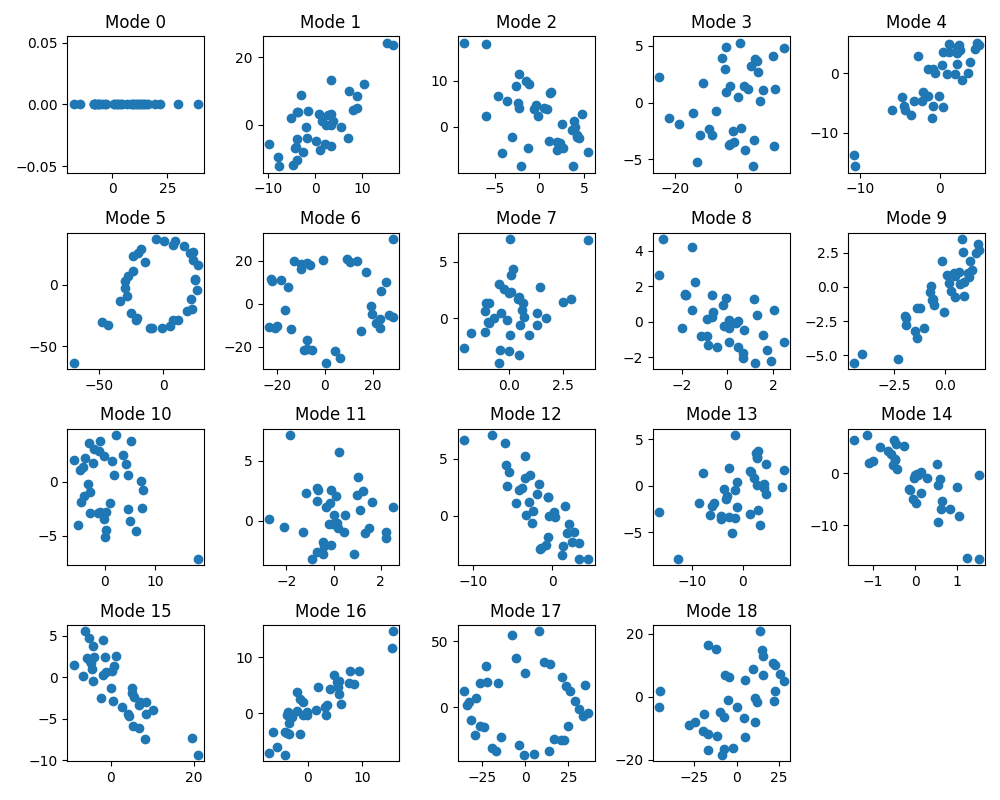
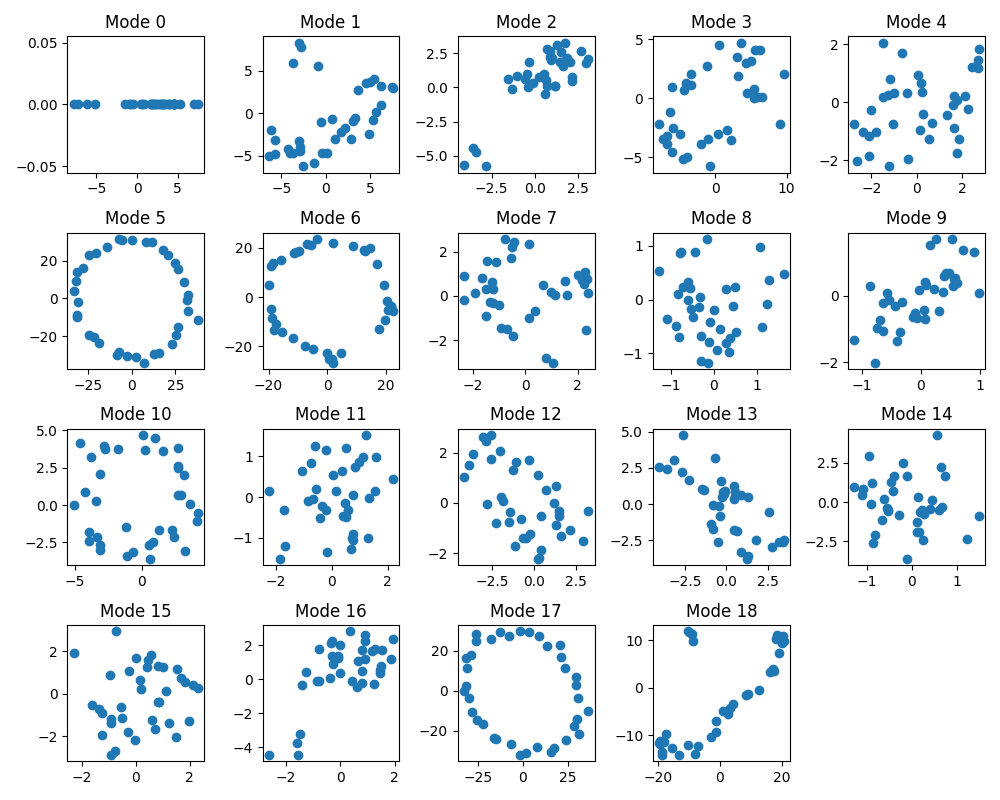
added some iterative functions to mlp_modular, but getting unexpected bug

diff --git a/modular_addition/mlp_modular.py b/modular_addition/mlp_modular.py
@@ -1,6 +1,8 @@
 import torch as t
 import torch.nn as nn
 import torch.utils.data as data
+import hashlib
+
 from sklearn.decomposition import PCA
 import matplotlib.pyplot as plt
 from generate_movie import (
@@ -10,12 +12,37 @@ from generate_movie import (
 )
 from itertools import combinations
 from utils import get_weight_norm
+from sympy import primerange
+
 import math
 
 
 def all_subsets(s):
     return [set(comb) for i in range(len(s) + 1) for comb in combinations(s, i)]
 
+
+def hash_with_seed(value, seed = 42):
+    m = hashlib.sha256()
+    m.update(str(seed).encode('utf-8'))
+    m.update(str(value).encode('utf-8'))
+    return int(m.hexdigest(), 16)
+
+
+
+class RandomOperationDataset(data.Dataset):
+    def __init__(self, d_vocab=114):
+        super().__init__()
+        self.d_vocab = d_vocab
+        self.eq_token = d_vocab - 1  # assuming '=' is the last token in the vocabulary
+
+    def __len__(self):
+        return (self.d_vocab - 1) ** 2
+
+    def __getitem__(self, idx):
+        a = idx // (self.d_vocab - 1)
+        b = idx % (self.d_vocab - 1)
+        res = hash_with_seed(a + b + a*b*self.d_vocab) % (self.d_vocab - 1)
+        return a, b, res
 
 class ModuloAdditionDataset(data.Dataset):
     def __init__(self, d_vocab=114):
@@ -97,6 +124,24 @@ class MLP(nn.Module):
         return self.linear3(x)
 
 
+def fourier_matrix(n):
+    fourier_matrix = t.zeros((n, n), dtype=t.cfloat)
+    for i in range(n):
+        for j in range(n):
+            theta = t.tensor(2 * t.pi * i * j / (n))
+            fourier_matrix[i, j] = t.complex(t.cos(theta), t.sin(theta))
+    return fourier_matrix
+
+def inv_fourier_matrix(n):
+    inv_fourier_matrix = t.zeros((n, n), dtype=t.cfloat)
+    for i in range(n):
+        for j in range(n):
+            theta = t.tensor(2 * t.pi * i * j / (n))
+            inv_fourier_matrix[i, j] = t.complex(t.cos(-theta), t.sin(-theta))
+            inv_fourier_matrix *= 1/(n)
+    return inv_fourier_matrix
+
+
 class MLP_unchunked(nn.Module):
     def __init__(self, embed_dim, vocab_size, hidden_dim):
         super().__init__()
@@ -126,6 +171,7 @@ class MLP_unchunked(nn.Module):
         fourier_matrix = fourier_matrix.to(embedding_weights.device)
         fourier_embedding = t.matmul(fourier_matrix, embedding_weights)
         return fourier_embedding
+
 
     def project_to_fourier_mode(self, filename):
         fourier_modes = self.get_fourier_modes()
@@ -169,6 +215,22 @@ class MLP_unchunked(nn.Module):
         plt.tight_layout()
         plt.savefig(filename)
         plt.close()
+
+
+
+def ablate_other_modes(model, modes, embedding):
+    n = self.vocab_size - 1
+    fourier_modes = get_fourier_modes(self)
+    inv_fourier_matrix = inv_fourier_matrix(n)
+    mask = torch.zeros(n, dtype=torch.float32)
+    # Use scatter_ to place zeros at the specified indices
+    mask.scatter_(0, modes, 1.0).to(t.cfloat)
+    fourier_modes *= mask
+    new_embed = t.matmul(inv_fourier_matrix, fourier_modes)
+    model.embedding = nn.Parameter(new_embed.to(device))
+    return(model)
+
+
 
 
 def add_embedding_noise(model, circuit_nums, device="cpu"):
@@ -251,8 +313,11 @@ def plot_embeddings(model, vocab_size):
     plt.savefig("embeddings.png")
 
 
-def get_train_test_loaders(train_frac, batch_size, vocab_size):
-    dataset = ModuloAdditionDataset(vocab_size)
+def get_train_test_loaders(train_frac, batch_size, vocab_size, randomize=False):
+    if randomize:
+        dataset = RandomOperationDataset(vocab_size)
+    else:
+        dataset = ModuloAdditionDataset(vocab_size)
     total_length = len(dataset)
     train_length = int(total_length * train_frac)
     test_length = total_length - train_length
@@ -270,6 +335,7 @@ def train(
     vocab_size=114,
     hidden_dim=32,
     embed_dim=16,
+    num_epochs = 500,
     save_frames=True,
     reg=0.005,
     use_circular_embeddings=False,
@@ -289,10 +355,11 @@ def train(
             use_circular_embeddings=use_circular_embeddings,
         )
     print(f"Number of parameters: {count_parameters(model)}")
-    optimizer = t.optim.AdamW(model.parameters(), lr=0.01, weight_decay=0.0)
+    # optimizer = t.optim.AdamW(model.parameters(), lr=0.01, weight_decay=0.0)
+    optimizer = t.optim.Adam(model.parameters(), lr=0.01, weight_decay=0.0)
     scheduler = t.optim.lr_scheduler.ExponentialLR(optimizer, gamma=1)
     criterion = nn.CrossEntropyLoss()
-    epochs = 500
+    epochs = num_epochs
     device = t.device("cuda" if t.cuda.is_available() else "cpu")
     model.to(device)
     step = 0
@@ -310,7 +377,7 @@ def train(
             optimizer.step()
             frame_n += 1
             if save_frames:
-                if frame_n % 10 == 0:
+                if frame_n % 100 == 0: #for big network might use 10
                     with t.no_grad():
                         step += 1
                         if use_unchunked:
@@ -325,6 +392,11 @@ def train(
                 f"Epoch {epoch}: train loss: {float(train_loss)}, train accuracy: {float(train_acc)}, val loss: {float(val_loss)}, val accuracy: {float(val_acc)}"
             )
         scheduler.step()
+        ###disrupt step
+        if epoch == 50:
+            model.embedding = nn.Parameter(t.randn(vocab_size, embed_dim))
+            optimizer = t.optim.Adam(model.parameters(), lr=0.01)
+
     t.save(model.state_dict(), "modular_addition.ckpt")
     return model
 
@@ -363,30 +435,37 @@ def experiment(model, test_loader, frac=0.5):
         )
         model.embedding = t.nn.Parameter(orig_embedding.to(device))
 
-
-if __name__ == "__main__":
-    train_frac = 0.7
-    batch_size = 256
-    vocab_size = 38
-    embed_dim = 14
-    hidden_dim = 32
-    use_unchunked = True
-    train_loader, test_loader = get_train_test_loaders(
-        train_frac, batch_size, vocab_size
-    )
-    train(
-        train_loader,
-        test_loader,
-        vocab_size=vocab_size,
-        embed_dim=embed_dim,
-        hidden_dim=hidden_dim,
-        save_frames=True,
-        use_circular_embeddings=False,
-        reg=0.001,
-        freeze_embed=False,
-        use_unchunked=use_unchunked,
-    )
-    run_movie_cmd()
+def train_manyprimes(
+        p_min = 17,
+        p_max = 217,
+        train_frac = 0.7,
+        batch_size = 256,
+        embed_dim = 8,
+        hidden_dim = 24,
+        use_unchunked = True,
+        randomize = True,
+    ):
+    primes = list(primerange(p_min, p_max+1))  
+    for p in primes:
+        vocab_size = p+1
+        print(f"prime{p}")
+        train_loader, test_loader = get_train_test_loaders(
+            train_frac, batch_size, vocab_size, randomize = randomize
+        )
+        train(
+            train_loader,
+            test_loader,
+            vocab_size=vocab_size,
+            hidden_dim=hidden_dim,
+            embed_dim=embed_dim,
+            num_epochs = 2000,
+            save_frames=False,
+            reg=0,
+            use_circular_embeddings=False,
+            freeze_embed=False,
+            use_unchunked=True,
+        )
+        run_movie_cmd(vocab_size - 1)
     if use_unchunked:
         model = MLP_unchunked(
             vocab_size=vocab_size, embed_dim=embed_dim, hidden_dim=hidden_dim
@@ -405,3 +484,108 @@ if __name__ == "__main__":
     if not use_unchunked:
         plot_embeddings_chunks(model)
         experiment(model, test_loader, frac=0.5)
+
+
+def train_manyfractions(
+        p = 37,     
+        batch_size = 256,
+        embed_dim = 8,
+        hidden_dim = 24,
+        use_unchunked = True,
+        randomize = True,
+    ):
+    vocab_size = p+1
+    fractions = [n/10 for n in range(1, 10)]
+    for fraction in fractions:
+        train_frac = fraction
+        print(f"fraction {fraction}")
+        train_loader, test_loader = get_train_test_loaders(
+            train_frac, batch_size, vocab_size, randomize = randomize
+        )
+        train(
+            train_loader,
+            test_loader,
+            vocab_size=vocab_size,
+            hidden_dim=hidden_dim,
+            embed_dim=embed_dim,
+            num_epochs = 2000,
+            save_frames=False,
+            reg=0,
+            use_circular_embeddings=False,
+            freeze_embed=False,
+            use_unchunked=True,
+        )
+        run_movie_cmd(p)
+    if use_unchunked:
+        model = MLP_unchunked(
+            vocab_size=vocab_size, embed_dim=embed_dim, hidden_dim=hidden_dim
+        )
+    else:
+        model = MLP(
+            vocab_size=vocab_size,
+            embed_dim=embed_dim,
+            hidden_dim=hidden_dim,
+            freeze_embed=False,
+            use_circular_embeddings=False,
+        )
+    model.load_state_dict(t.load("modular_addition.ckpt"))
+    model.eval()
+    plot_embeddings(model, vocab_size)
+    if not use_unchunked:
+        plot_embeddings_chunks(model)
+        experiment(model, test_loader, frac=0.5)
+
+
+if __name__ == "__main__":
+    train_manyfractions()
+    # p = 101
+    # train_frac = 0.7
+    # batch_size = 256
+    # vocab_size = p+1
+    # embed_dim = 4
+    # hidden_dim = 12
+    # use_unchunked = False
+    # randomize = False
+    # train_loader, test_loader = get_train_test_loaders(
+    #     train_frac, batch_size, vocab_size, randomize = randomize
+    # )
+    # train(
+    #     train_loader,
+    #     test_loader,
+    #     vocab_size=vocab_size,
+    #     hidden_dim=hidden_dim,
+    #     embed_dim=embed_dim,
+    #     num_epochs = 1000,
+    #     save_frames=True,
+    #     reg=0,
+    #     use_circular_embeddings=True,
+    #     freeze_embed=False,
+    #     use_unchunked=False,
+    # )
+    # run_movie_cmd(p)
+
+
+
+
+    # train_frac = 0.7
+    # batch_size = 256
+    # vocab_size = 38
+    # embed_dim = 14
+    # hidden_dim = 32
+    # use_unchunked = True
+    # train_loader, test_loader = get_train_test_loaders(
+    #     train_frac, batch_size, vocab_size
+    # )
+    # train(
+    #     train_loader,
+    #     test_loader,
+    #     vocab_size=vocab_size,
+    #     embed_dim=embed_dim,
+    #     hidden_dim=hidden_dim,
+    #     save_frames=True,
+    #     use_circular_embeddings=False,
+    #     reg=0.001,
+    #     freeze_embed=False,
+    #     use_unchunked=use_unchunked,
+    # )
+

diff --git a/modular_addition/train_in_sphere_modular_addition.py b/modular_addition/train_in_sphere_modular_addition.py
@@ -17,7 +17,7 @@ from generate_movie import (
 
 
 def get_module_parameters(model):
-    return model.embedding.parameters()
+    return model.parameters()
 
 
 def quadratic_form(top_eigenvalues, top_eigenvectors, v):
@@ -175,8 +175,8 @@ def main(checkpoint_path="modular_addition.ckpt"):
     EMBED_DIM = 14
     HIDDEN_DIM = 32
     N_EPOCHS = 3000
-    N_EIGENVECTORS = 50
-    BOUND_EIGENVECTORS = 15
+    N_EIGENVECTORS = 35
+    BOUND_EIGENVECTORS = 20
     LAMBDA_SPHERE = 20
     LAMBDA_ORTH = 0.5
     LAMBDA_STAB = 0.1
@@ -205,6 +205,7 @@ def main(checkpoint_path="modular_addition.ckpt"):
         param_extract_fn=get_module_parameters,
         reg=WEIGHT_REG,
     )
+    eigenvalues, eigenvectors = eigenvalues[:-BOUND_EIGENVECTORS], eigenvectors[:-BOUND_EIGENVECTORS]
     initial_params = None
     frame_idx = 0
     for circuit in range(1):
@@ -225,7 +226,7 @@ def main(checkpoint_path="modular_addition.ckpt"):
                 param_extract_fn=get_module_parameters,
                 reg=WEIGHT_REG,
             )
-        for radius in [5, 10, 15]:
+        for radius in [15, 25, 30, 35, 40]:
             _, frame_idx = train_in_sphere(
                 model,
                 train_loader,
@@ -253,6 +254,9 @@ def main(checkpoint_path="modular_addition.ckpt"):
                 parameters_to_vector(start_model.parameters()).detach().to(DEVICE)
             )
         run_movie_cmd()
+
+
+        def ablate_other_modes(modes):
 
 
 if __name__ == "__main__":

diff --git a/modular_addition/generate_movie.py b/modular_addition/generate_movie.py
@@ -7,10 +7,10 @@ import matplotlib.pyplot as plt
 import os
 from datetime import datetime
 
-def run_movie_cmd():
+def run_movie_cmd(p = 0):
     if not os.path.exists("movies"):
         os.mkdir("movies")
-    mp4_name = os.path.join('movies', f'movie_{datetime.now().strftime("%Y%m%d_%H%M%S")}.mp4')
+    mp4_name = os.path.join('movies', f'movie_{datetime.now().strftime("%Y%m%d_%H%M%S")}_p_{p}.mp4')
     os.system(f'ffmpeg -framerate 3 -i frames/embeddings_movie_%06d.png -c:v libx264 -pix_fmt yuv420p {mp4_name}')
     os.system('rm frames/embeddings_movie_*.png')
     print(f'movie saved as {mp4_name}')
